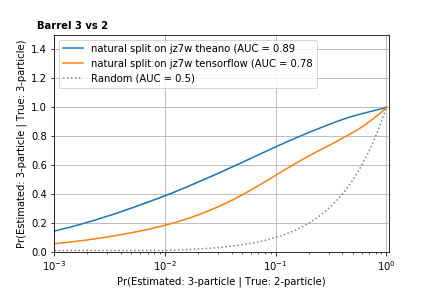
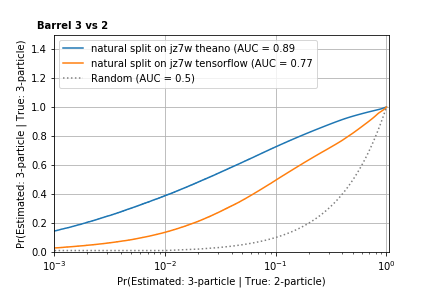
Updated Learning Rate

diff --git a/share/reference_number.py b/share/reference_number.py
@@ -10,7 +10,7 @@ def build_model(data_x, data_y):
         structure=[25, 20],
         hidden_activation=keras_utils.Sigmoid2,
         output_activation=keras_utils.Sigmoid2,
-        learning_rate=0.008,
+        learning_rate=0.08,
         weight_decay=1e-7,
         momentum=0.4,
         #minibatch_size=60,
